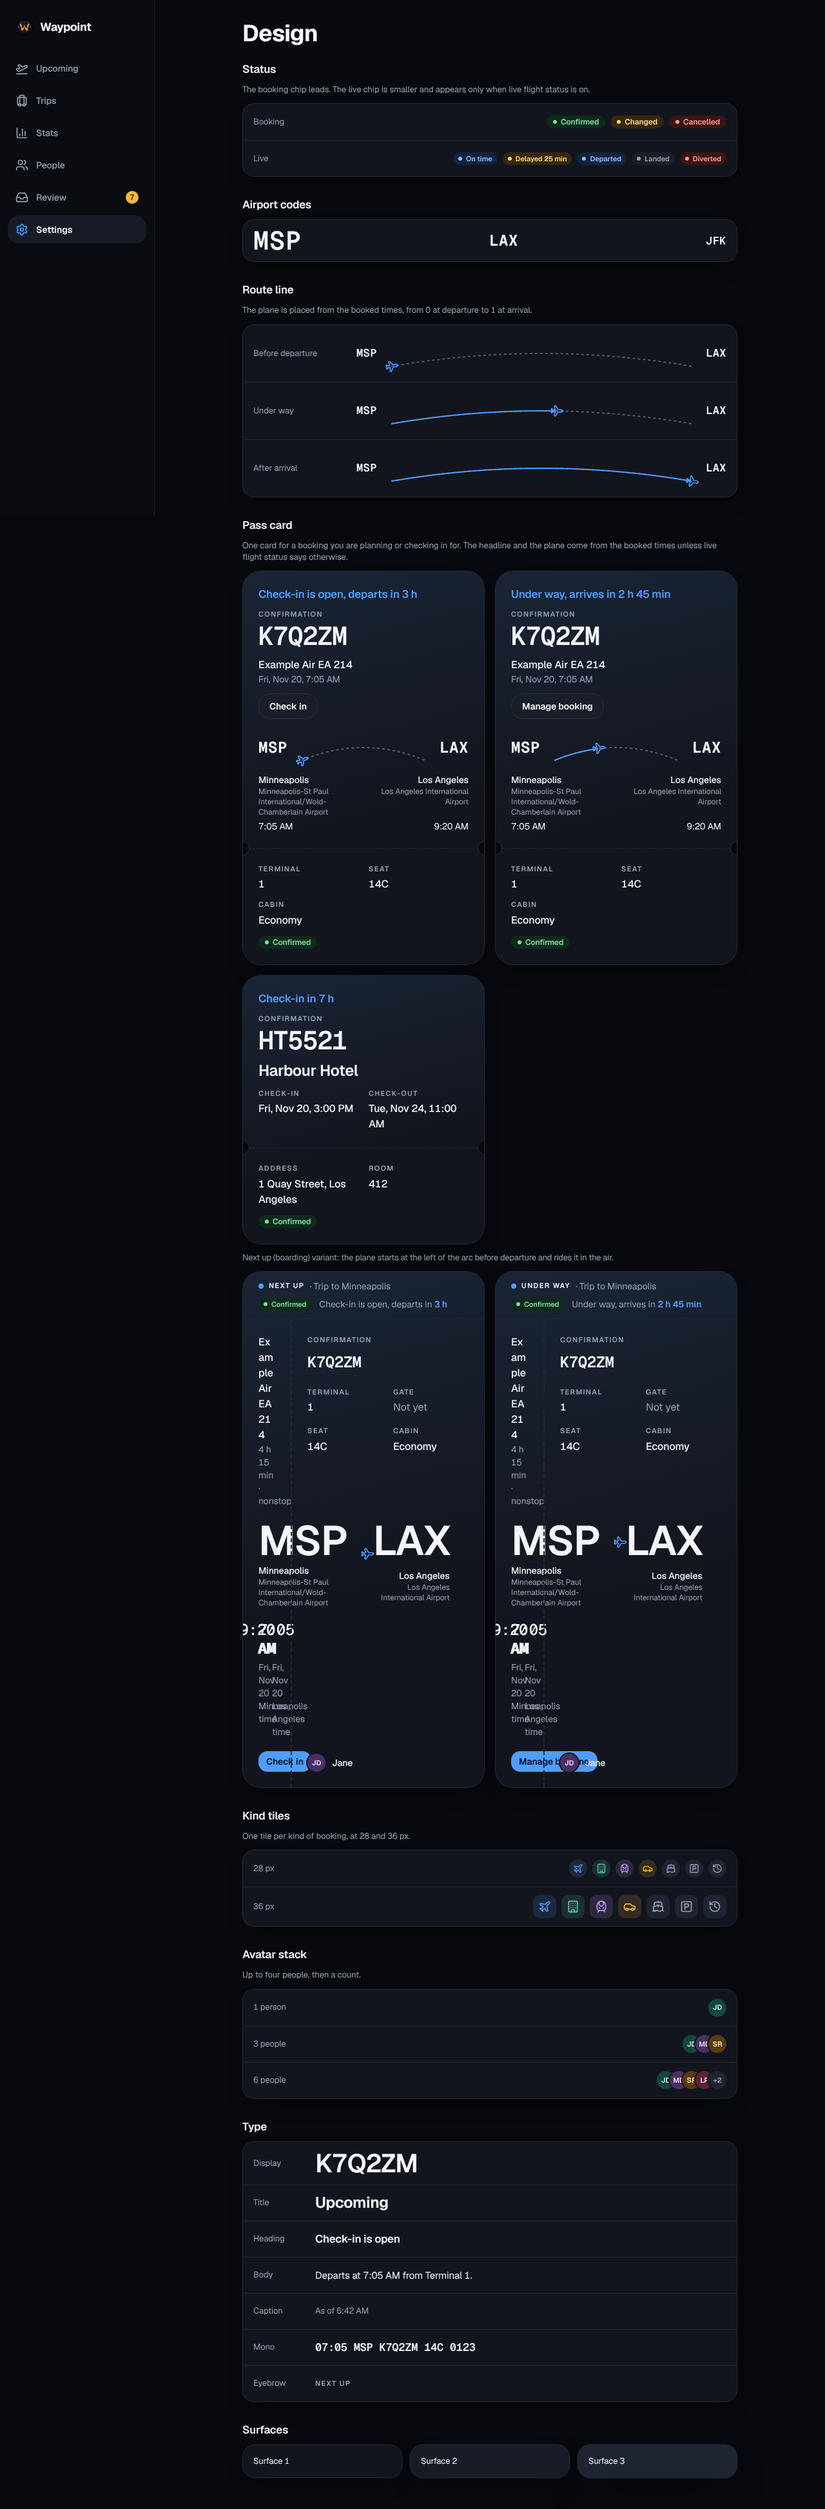
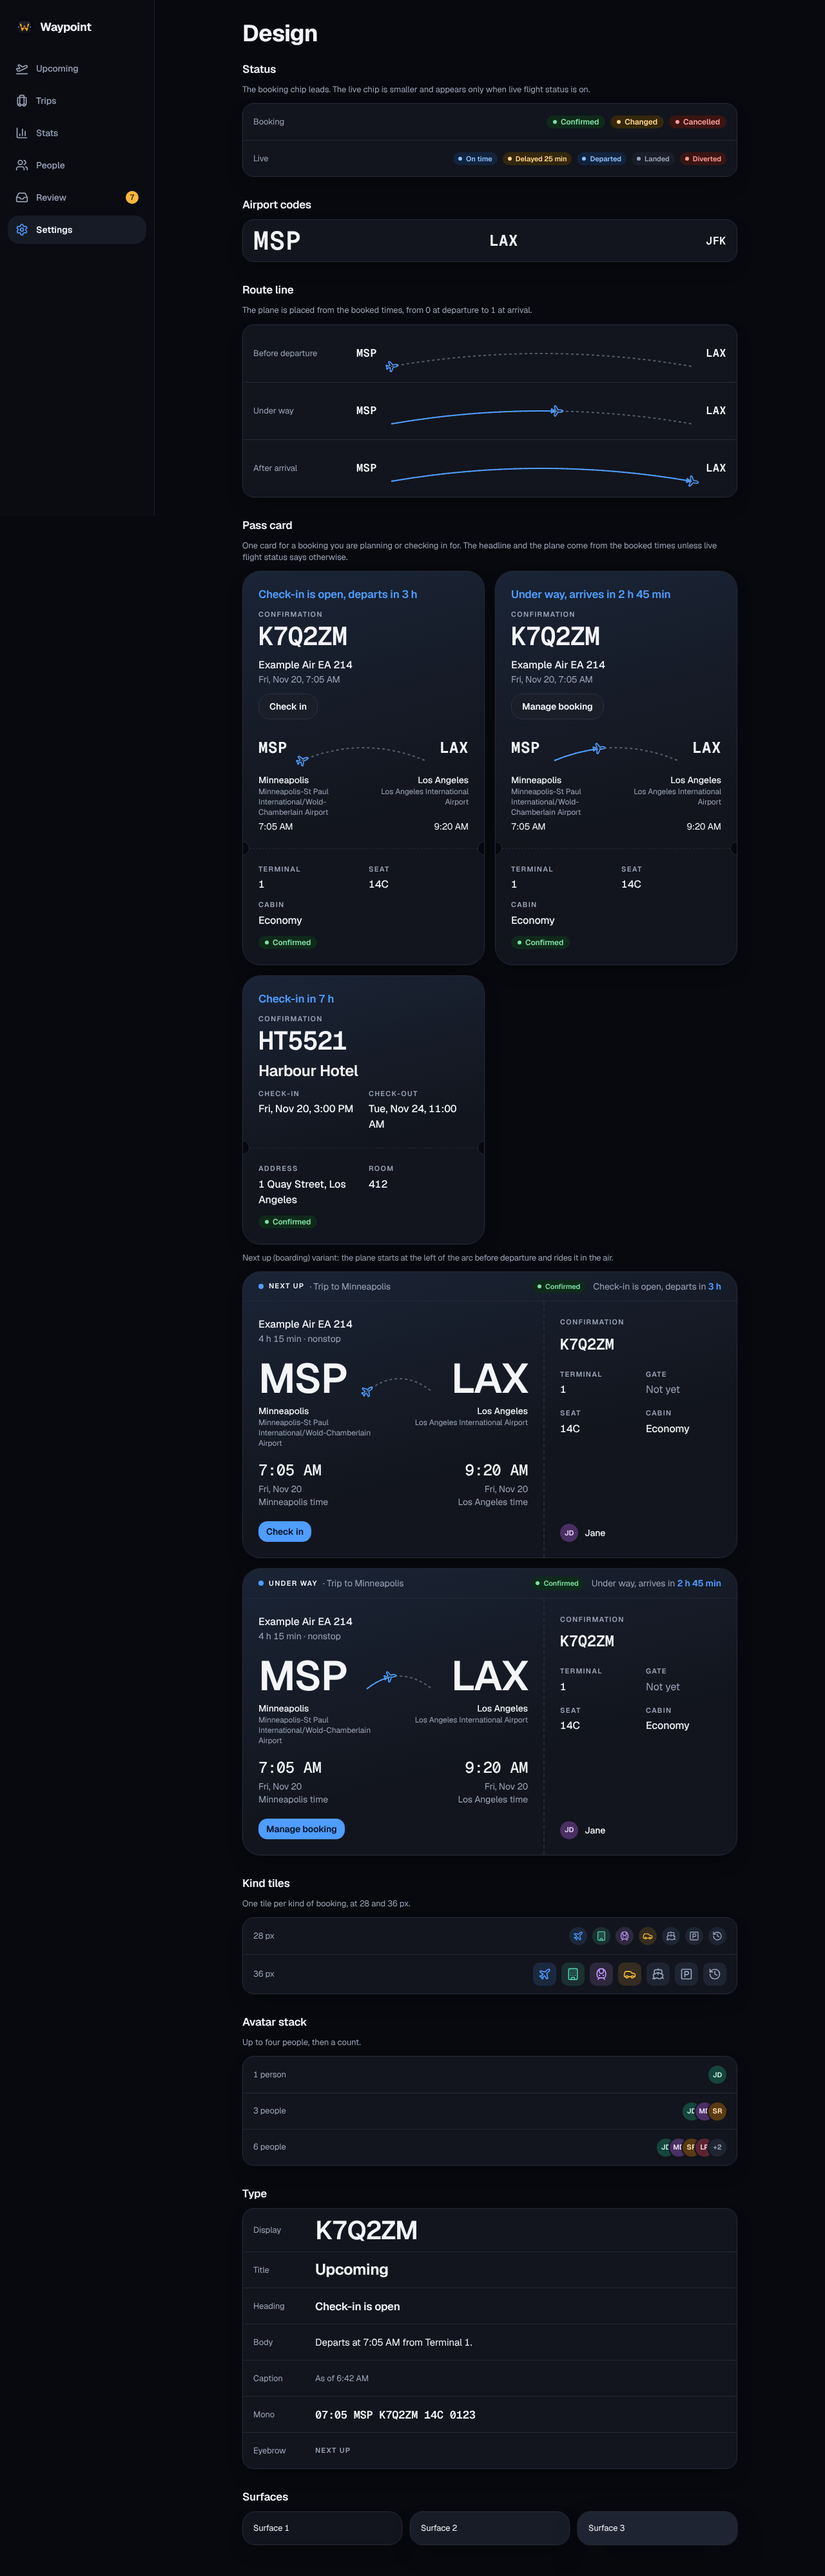
fix: keep long airport names from squeezing the route arc on the boarding card
The boarding card put the airport names in the same auto-sized columns as the codes, so a long name ("Minneapolis-St Paul International/Wold-Chamberlain Airport") took the width first and the middle column holding the arc collapsed to almost nothing: no arc, and the plane stuck at one spot, at desktop and phone widths. The names now sit in their own two-column row under the codes, as on the standard card. The Design page shows the boarding specimens in one column, as Upcoming does, and its images are retaken from the real app.

Claude-Session: https://claude.ai/code/session_016r9p5UdbMqEazER7z6FpbX

diff --git a/frontend/src/lib/components/PassCard.svelte b/frontend/src/lib/components/PassCard.svelte
@@ -128,21 +128,24 @@
       </div>
 
       {#if routed}
-        <div class="grid grid-cols-[auto_minmax(0,1fr)_auto] items-center gap-x-3 desktop:gap-x-5" class:line-through={cancelled}>
-          <p class="break-words text-[44px] font-semibold leading-none tracking-tight desktop:text-[64px]" data-code="origin">{s.origin ?? "—"}</p>
+        <div class="flex flex-col gap-1">
+          <div class="grid grid-cols-[auto_minmax(0,1fr)_auto] items-center gap-x-3 desktop:gap-x-5" class:line-through={cancelled}>
+            <p class="break-words text-[44px] font-semibold leading-none tracking-tight desktop:text-[64px]" data-code="origin">{s.origin ?? "—"}</p>
+            {#if flight}
+              <RouteLine progress={grounded ? 0 : progress} label={evidence === "landed" ? "Route, with the plane at the destination" : "Route"} />
+            {:else}
+              <span class="relative flex h-11 min-w-0 items-center desktop:h-16" role="img" aria-label="Route" data-progress={0.5}>
+                <span class="absolute inset-x-0 top-1/2 border-t-2 border-dashed border-border"></span>
+                <span class="absolute left-1/2 top-1/2 -translate-x-1/2 -translate-y-1/2 bg-card px-1 text-primary" data-plane><TrainFront class="size-5" aria-hidden="true" /></span>
+              </span>
+            {/if}
+            <p class="break-words text-right text-[44px] font-semibold leading-none tracking-tight desktop:text-[64px]" data-code="destination">{s.destination ?? "—"}</p>
+          </div>
           {#if flight}
-            <RouteLine progress={grounded ? 0 : progress} label={evidence === "landed" ? "Route, with the plane at the destination" : "Route"} />
-          {:else}
-            <span class="relative flex h-11 min-w-0 items-center desktop:h-16" role="img" aria-label="Route" data-progress={0.5}>
-              <span class="absolute inset-x-0 top-1/2 border-t-2 border-dashed border-border"></span>
-              <span class="absolute left-1/2 top-1/2 -translate-x-1/2 -translate-y-1/2 bg-card px-1 text-primary" data-plane><TrainFront class="size-5" aria-hidden="true" /></span>
-            </span>
-          {/if}
-          <p class="break-words text-right text-[44px] font-semibold leading-none tracking-tight desktop:text-[64px]" data-code="destination">{s.destination ?? "—"}</p>
-          {#if flight}
-            <div class="min-w-0"><AirportName code={s.origin ?? ""} /></div>
-            <span></span>
-            <div class="min-w-0 text-right"><AirportName code={s.destination ?? ""} /></div>
+            <div class="grid grid-cols-2 gap-x-3" class:line-through={cancelled}>
+              <div class="min-w-0"><AirportName code={s.origin ?? ""} /></div>
+              <div class="min-w-0 text-right"><AirportName code={s.destination ?? ""} /></div>
+            </div>
           {/if}
         </div>
         {#if differ}

diff --git a/frontend/src/lib/components/PassCard.svelte.test.ts b/frontend/src/lib/components/PassCard.svelte.test.ts
@@ -430,6 +430,14 @@ describe("the boarding-pass variant", () => {
     render(PassCard, board({}, { status: "cancelled" }));
     expect(screen.getByRole("img", { name: "Route" }).dataset.progress).toBe("0");
   });
+  it("keeps the airport names out of the grid that holds the codes and the arc, so long names cannot squeeze the route", async () => {
+    const { container } = render(PassCard, board());
+    const grid = container.querySelector("[data-code='origin']")?.parentElement as HTMLElement;
+    expect(grid.children).toHaveLength(3);
+    expect(grid.contains(screen.getByRole("img", { name: "Route" }))).toBe(true);
+    expect(await screen.findByText("John F. Kennedy International Airport")).toBeInTheDocument();
+    expect(grid.contains(screen.getByText("John F. Kennedy International Airport"))).toBe(false);
+  });
   it("shows both codes, the length, nonstop, and each time at its own airport with the day shift", async () => {
     render(PassCard, board());
     expect(screen.getByText("JFK")).toBeInTheDocument();

diff --git a/frontend/src/pages/Design.svelte b/frontend/src/pages/Design.svelte
@@ -94,7 +94,7 @@
       <PassCard segment={stay} now={stayNow} />
     </div>
     <h3 class="text-caption text-muted-foreground">Next up (boarding) variant: the plane starts at the left of the arc before departure and rides it in the air.</h3>
-    <div class="grid gap-4 lg:grid-cols-2">
+    <div class="grid gap-4">
       <PassCard segment={flight} now={flightNow} boarding eyebrow="Next up" tripName="Trip to Minneapolis" />
       <PassCard segment={flight} now={underWayNow} boarding eyebrow="Under way" tripName="Trip to Minneapolis" pulse />
     </div>
